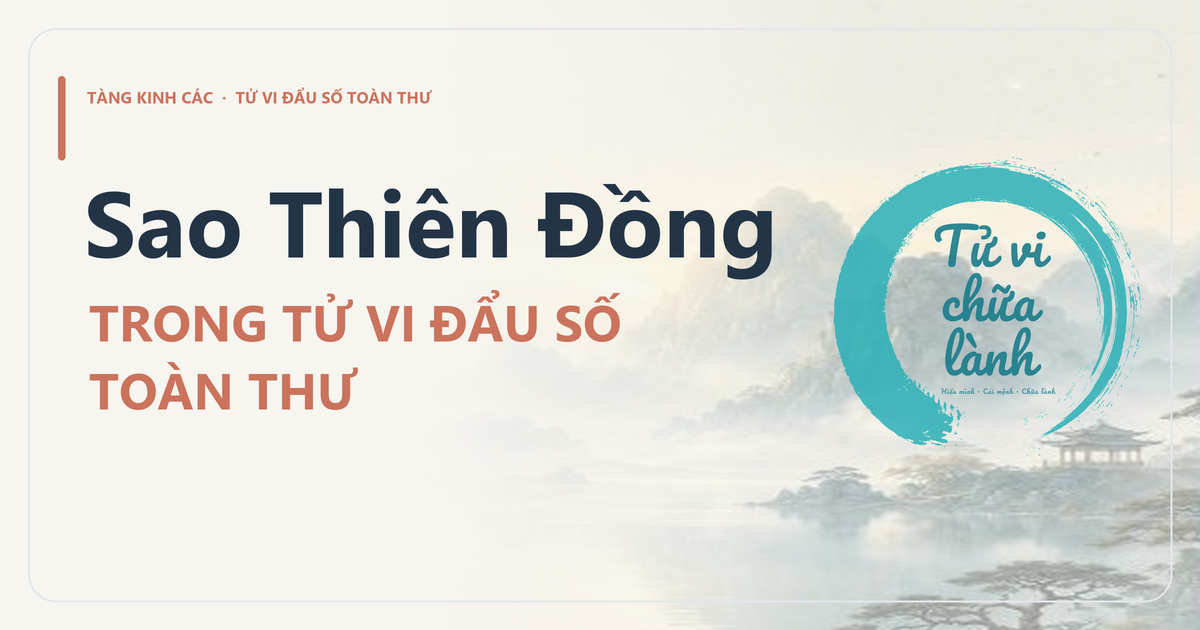
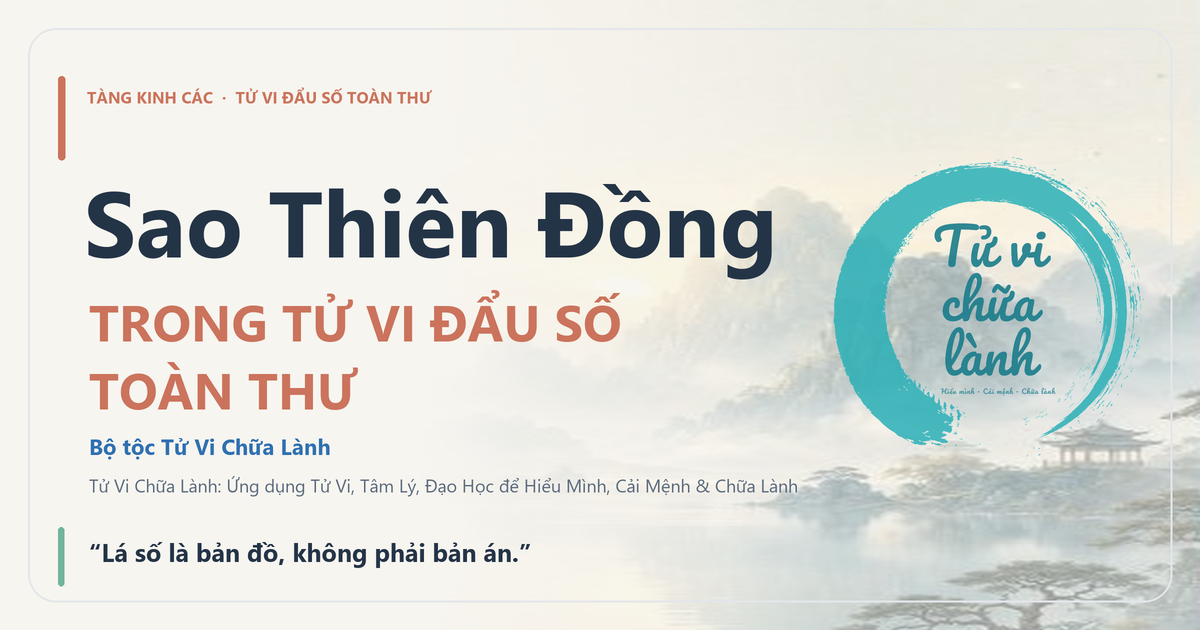
Add TVCL brand lines to Toan Thu share images

diff --git a/scripts/generate_toan_thu_share_images.py b/scripts/generate_toan_thu_share_images.py
@@ -104,6 +104,21 @@ def make_image(title: str, accent_hex: str, hub: bool = False) -> Image.Image:
         draw.text((89 * SCALE, 286 * SCALE), "TRONG TỬ VI ĐẨU SỐ", font=f(51, True), fill=(*accent, 255))
         draw.text((89 * SCALE, 354 * SCALE), "TOÀN THƯ", font=f(51, True), fill=(*accent, 255))
 
+    draw.text((89 * SCALE, 431 * SCALE), "Bộ tộc Tử Vi Chữa Lành", font=f(22, True), fill=(46, 112, 177, 255))
+    draw.text(
+        (89 * SCALE, 473 * SCALE),
+        "Tử Vi Chữa Lành: Ứng dụng Tử Vi, Tâm Lý, Đạo Học để Hiểu Mình, Cải Mệnh & Chữa Lành",
+        font=f(18),
+        fill=(*muted, 255),
+    )
+    draw.rounded_rectangle((58 * SCALE, 527 * SCALE, 64 * SCALE, 586 * SCALE), radius=3 * SCALE, fill=(112, 181, 156, 255))
+    draw.text(
+        (89 * SCALE, 535 * SCALE),
+        "“Lá số là bản đồ, không phải bản án.”",
+        font=f(25, True),
+        fill=(*ink, 255),
+    )
+
     return base.convert("RGB").resize((W, H), Image.Resampling.LANCZOS)
 
 
